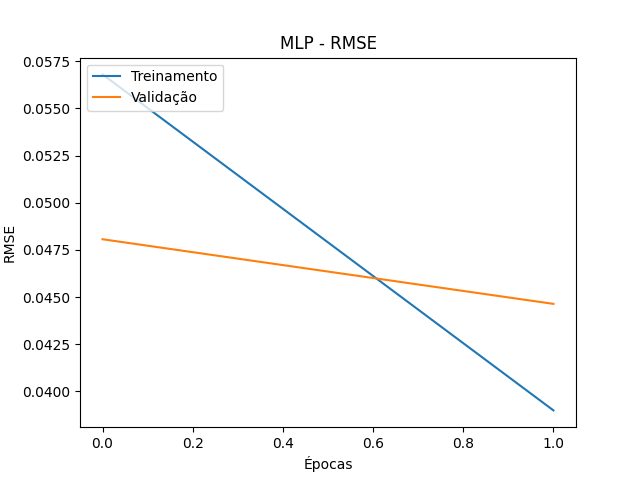
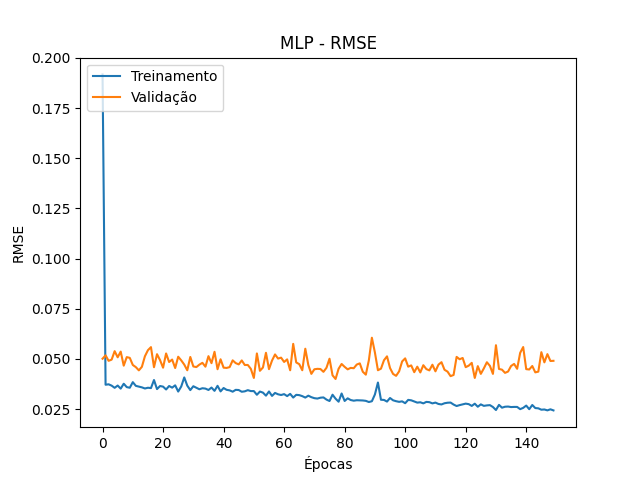
[UPD] Atualizado o arquivo de geração da detecção

diff --git a/01teste.py b/01teste.py
@@ -5,14 +5,17 @@ from models.ModelMLP import ModelMLP
 from models.ModelLSTM import ModelLSTM
 from sklearn.model_selection import train_test_split
 
-EPOCHS = 2
-BATCH_SIZE = 100
+EPOCHS = 150
+BATCH_SIZE = 2211
 
 
-def main():
-    print('Iniciando a detecção de fake news')
-    inicio = time.time()
+def generateData():
+    """
+    Busca os dados e organiza para utilização nos modelos
 
+    :return: Retorna um dict com os dados
+    :rtype: dict
+    """
     # realiza a leitura do CSV
     df = pd.read_csv('dataset_converted.csv', index_col=0)
     print('Dataset: ')
@@ -44,29 +47,44 @@ def main():
     print('Quantidade de registros para validação: %i ' % len(x_val))
     print('Quantidade de registros para teste: %i ' % len(x_test))
     print('Quantidade de épocas: %i' % EPOCHS)
+    return data
 
-    # # Exemplo MLP
-    # layers = [
-    #     # camada de entrada
-    #     {
-    #         'qtd_neurons': 12,
-    #         'activation': Model.ATIVACAO_RELU,
-    #     },
-    #     # camada intermediária 01
-    #     {
-    #         'qtd_neurons': 8,
-    #         'activation': Model.ATIVACAO_RELU,
-    #     },
-    #     # camada de saída
-    #     {
-    #         'qtd_neurons': 1,
-    #         'activation': Model.ATIVACAO_SIGMOID,
-    #     },
-    # ]
-    # model_mlp = ModelMLP(EPOCHS, BATCH_SIZE, layers, data)
-    # model_mlp.predict()
 
-    # Exemplo LSTM
+def generateMLP(data):
+    """
+    Realiza a detecção de fake news com o modelo MLP
+
+    :param data: Dados utilizados no modelo
+    :type data: dict
+    """
+    layers = [
+        # camada de entrada
+        {
+            'qtd_neurons': 12,
+            'activation': Model.ATIVACAO_RELU,
+        },
+        # camada intermediária 01
+        {
+            'qtd_neurons': 8,
+            'activation': Model.ATIVACAO_RELU,
+        },
+        # camada de saída
+        {
+            'qtd_neurons': 1,
+            'activation': Model.ATIVACAO_SIGMOID,
+        },
+    ]
+    model_mlp = ModelMLP(EPOCHS, BATCH_SIZE, layers, data)
+    model_mlp.predict()
+
+
+def generateLSTM(data):
+    """
+    Realiza a detecção de fake news com o modelo LSTM
+
+    :param data: Dados utilizados no modelo
+    :type data: dict
+    """
     layers = [
         # camada de entrada
         {
@@ -95,6 +113,15 @@ def main():
     ]
     model_lstm = ModelLSTM(EPOCHS, BATCH_SIZE, layers, data)
     model_lstm.predict()
+
+
+def main():
+    print('Iniciando a detecção de fake news')
+    inicio = time.time()
+
+    data = generateData()
+    generateMLP(data)
+    generateLSTM(data)
 
     fim = time.time()
     print('Detecção de fake news realizada com sucesso! ')
